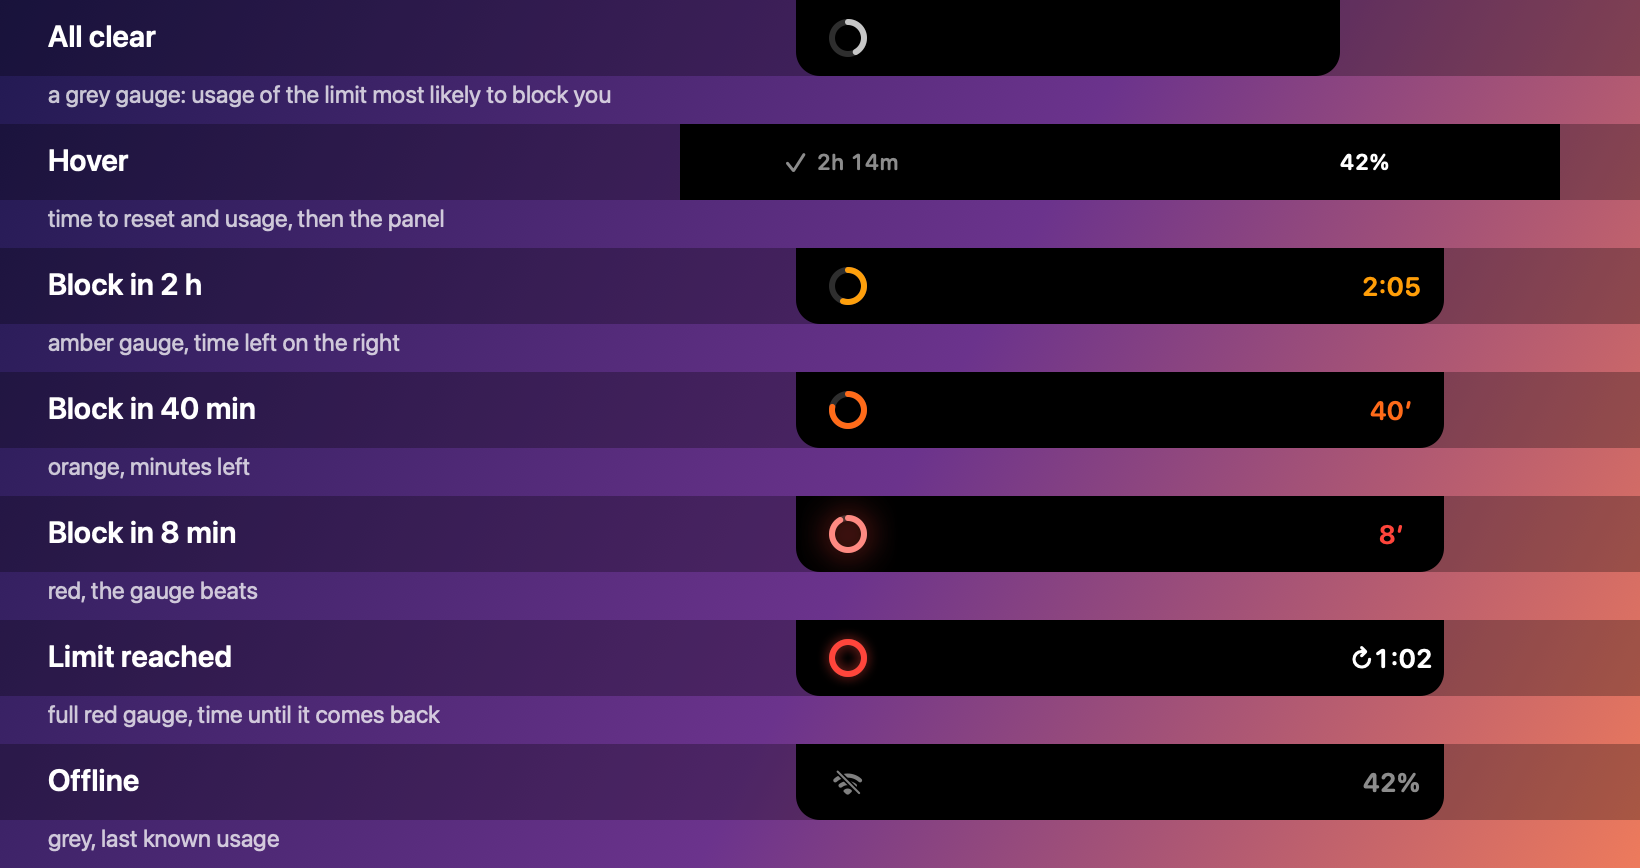
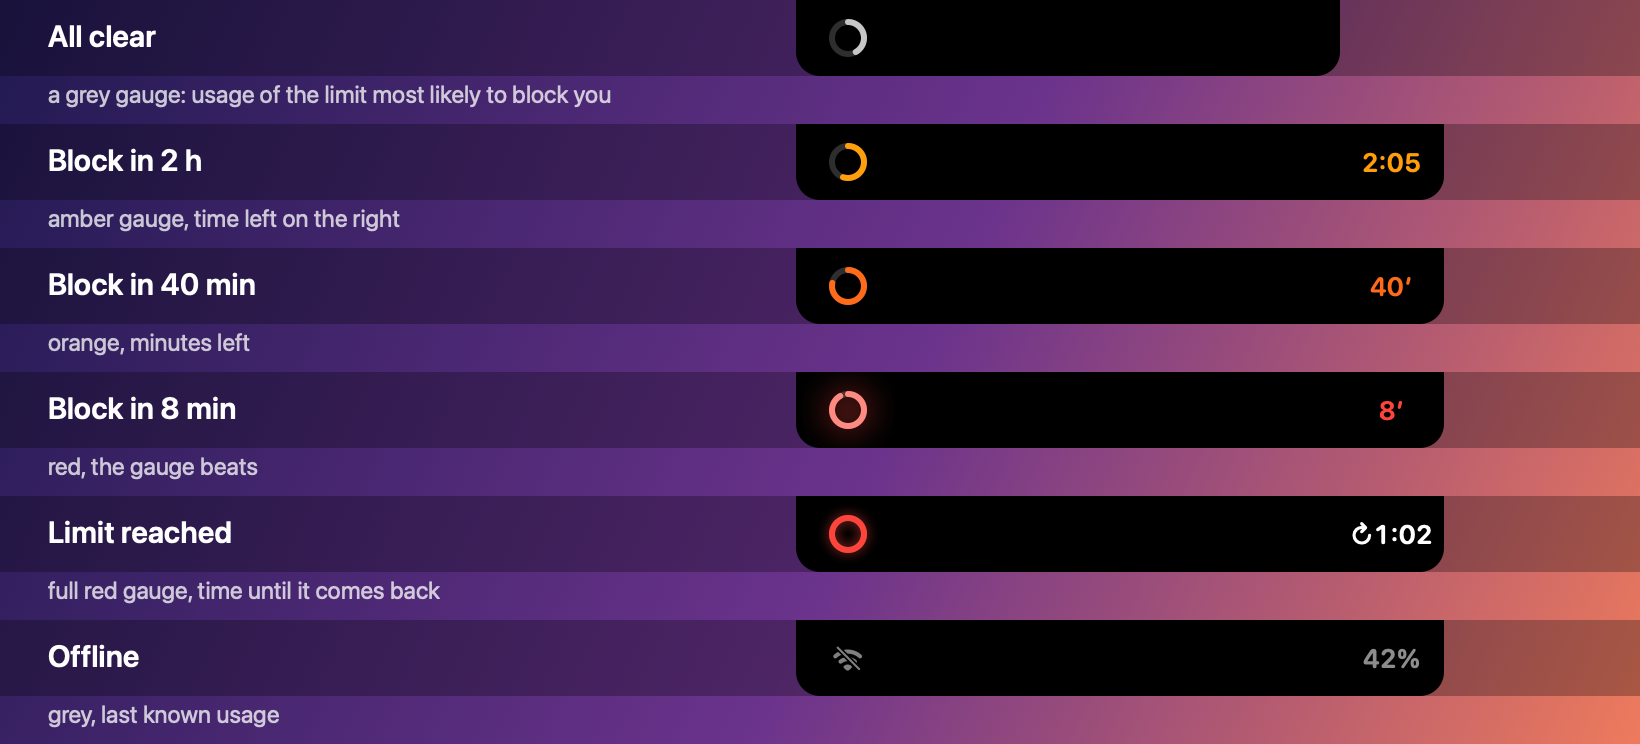
feat(012): the island stays on hover, the panel opens below
The 003 text strip no longer replaces the island when hovering or pinned.
The right ear keeps its place while expanded so the notch stays centred.
Band rendering and the unused alert pulse removed; README, states sheet
and spec/contract updated.

diff --git a/App/NotchUsage/Views/CompactView.swift b/App/NotchUsage/Views/CompactView.swift
@@ -1,41 +1,26 @@
 import NotchUsageCore
 import SwiftUI
 
-/// Bandeau replié (003, 012) : au repos, l'île (jauge ou glyphe à gauche, une donnée à droite) ; au survol et
-/// épinglé, la bande complète (`CompactStrip`). La pilule montre l'île sur une ligne.
+/// Haut du panneau (012) : l'île, repliée comme dépliée (retour utilisateur : la bande à texte de la 003 au
+/// survol cassait l'effet Dynamic Island). Jauge ou glyphe à gauche, une donnée à droite ; la pilule l'aligne.
 struct CompactView: View {
     let display: DisplayState
     let signal: NotchSignal
-    var now: Date = Date()
-    var pulse: Int = 0
     var beat: Int = 0
-    var onReconnect: (() -> Void)?
     @Environment(\.accessibilityReduceMotion) private var reduceMotion
 
     var body: some View {
         Group {
-            if display.isExpanded, case .band(let strip) = signal.content {
-                if display.mode == .notch {
-                    HStack(spacing: 0) {
-                        leading(strip, glyph: true).frame(width: wing, alignment: .trailing)
-                        Color.clear.frame(width: display.layout.width)
-                        trailing(strip).frame(width: wing, alignment: .leading)
-                    }
-                    .padding(.horizontal, Self.horizontalPadding)
-                } else {
-                    ViewThatFits(in: .horizontal) {
-                        bandLine(strip, glyph: true)
-                        bandLine(strip, glyph: false)
-                    }
-                    .padding(.horizontal, Self.horizontalPadding)
-                }
-            } else if display.mode == .notch {
-                // L'encoche physique au centre, une oreille de chaque côté ; la droite n'existe qu'avec une donnée.
+            if display.mode == .notch {
+                // L'encoche physique au centre. Repliée, l'oreille droite n'existe qu'avec une donnée ; dépliée, elle
+                // garde sa place pour que l'encoche reste au centre du panneau.
                 HStack(spacing: 0) {
                     islandLeading.frame(width: NotchPanelController.earWidth)
                     Color.clear.frame(width: display.layout.width)
                     if let trailing = signal.island.trailing {
                         islandTrailing(trailing).frame(width: NotchPanelController.earWidth).transition(.opacity)
+                    } else if display.isExpanded {
+                        Color.clear.frame(width: NotchPanelController.earWidth)
                     }
                 }
             } else {
@@ -43,21 +28,14 @@ struct CompactView: View {
                     islandLeading
                     if let trailing = signal.island.trailing { islandTrailing(trailing).transition(.opacity) }
                 }
-                .padding(.horizontal, Self.horizontalPadding)
+                .padding(.horizontal, 10)
             }
         }
-        .font(.system(size: 11, weight: .semibold, design: .rounded))
         .foregroundStyle(.white)
         .accessibilityElement(children: .ignore)
         .accessibilityHidden(false)
         .accessibilityLabel(signal.accessibility)
     }
-
-    private static let horizontalPadding: CGFloat = 10
-    /// Largeur utile d'une aile de la bande : la largeur de l'aile moins la marge horizontale.
-    private var wing: CGFloat { NotchPanelController.wingWidth - Self.horizontalPadding }
-
-    // MARK: Île (012)
 
     @ViewBuilder private var islandLeading: some View {
         switch signal.island.leading {
@@ -93,82 +71,9 @@ struct CompactView: View {
         case .unavailable: return "questionmark.circle"
         }
     }
-
-    private func bandLine(_ strip: CompactStrip, glyph: Bool) -> some View {
-        HStack(spacing: 5) {
-            leading(strip, glyph: glyph)
-            if leftText(strip) != nil { Text(verbatim: "·").foregroundStyle(.secondary) }
-            trailing(strip)
-        }
-        .fixedSize()
-    }
-
-    private func pill(_ text: String, tint: Color) -> some View {
-        Text(text).monospacedDigit().fixedSize()
-            .foregroundStyle(.black.opacity(0.85))
-            .padding(.horizontal, 5).padding(.vertical, 1)
-            .background(Capsule().fill(tint))
-    }
-
-    // MARK: Bande complète (003)
-
-    private func leftText(_ strip: CompactStrip) -> String? {
-        switch strip.left {
-        case .holds(let t), .blockIn(let t), .blockedFor(let t), .offline(let t): return t
-        case .locked, .connect, .unsupported, .unavailable: return nil
-        }
-    }
-
-    private func leading(_ strip: CompactStrip, glyph: Bool) -> some View {
-        let (symbol, color): (String, Color) = switch strip.left {
-        case .holds: ("checkmark", .secondary)
-        case .blockIn: ("hourglass", tint(strip.tone))
-        case .blockedFor: ("arrow.clockwise", .red)
-        case .offline: ("wifi.slash", .secondary)
-        case .locked: ("lock", .orange)
-        case .connect: ("person.crop.circle.badge.plus", .secondary)
-        case .unsupported: ("questionmark.circle", .secondary)
-        case .unavailable: ("wifi.exclamationmark", .secondary)
-        }
-        return HStack(spacing: 4) {
-            if glyph || leftText(strip) == nil {
-                Image(systemName: symbol).symbolEffect(.bounce, value: pulse)
-            }
-            if let text = leftText(strip) {
-                Text(text).monospacedDigit().fontWeight(color == .secondary ? .medium : .semibold).fixedSize()
-            }
-        }
-        .foregroundStyle(color)
-    }
-
-    @ViewBuilder private func trailing(_ strip: CompactStrip) -> some View {
-        switch strip.right {
-        case .percent(let t):
-            Text(t).monospacedDigit().fixedSize().foregroundStyle(strip.tone == .muted ? Color.secondary : Color.white)
-        case .pill(let t):
-            pill(t, tint: tint(strip.tone))
-        case .signIn(let t):
-            Button { onReconnect?() } label: { Text(t).foregroundStyle(.orange).fixedSize() }
-                .buttonStyle(.plain)
-                .accessibilityAddTraits(.isButton)
-        case .connect(let t):
-            Text(t).foregroundStyle(.secondary).fixedSize()
-        case .dash:
-            Text("—").foregroundStyle(.secondary)
-        }
-    }
-
-    private func tint(_ tone: CompactStrip.Tone) -> Color {
-        switch tone {
-        case .critical: return .red
-        case .warning: return .orange
-        case .muted: return .secondary
-        case .normal: return .white
-        }
-    }
 }
 
-/// Rendu des paliers du liseré (contrat notch-signal.md) : teintes système en apparence sombre.
+/// Teintes des paliers (005), en apparence sombre : jauge de l'île et point plein écran.
 extension NotchSignal.Edge {
     var rgb: (red: Double, green: Double, blue: Double) {
         switch self {

diff --git a/App/NotchUsage/AppModel.swift b/App/NotchUsage/AppModel.swift
@@ -40,7 +40,6 @@ final class AppModel {
     private(set) var signal: NotchSignal
     private(set) var layout: NotchLayout
     /// Incrémenté à chaque alerte émise : déclenche une animation brève (T058).
-    private(set) var alertPulse = 0
     /// Battements du halo (006) : incrémenté sur le tick de 30 s selon `signal.pulse`, jamais remis à zéro.
     /// Battements du halo (006) : `BeatCounter` sur le tick de 30 s, jamais remis à zéro.
     private var beatCounter = BeatCounter()
@@ -198,9 +197,8 @@ final class AppModel {
         let alerts = c.alerts
         alertTask = Task { [weak self] in
             for await event in alerts {
-                guard let self else { return }
+                guard self != nil else { return }
                 Log.refresh.notice("alert \(event.level.rawValue, privacy: .public) on \(event.limitID, privacy: .public)")
-                self.alertPulse += 1
             }
         }
         Task { await c.start() }

diff --git a/App/NotchUsage/Views/NotchRootView.swift b/App/NotchUsage/Views/NotchRootView.swift
@@ -14,7 +14,7 @@ struct NotchRootView: View {
                 AlertDotView(level: d.alertLevel, visible: d.showAlertDot, edge: s.edge, beat: model.beat)
                     .frame(height: NotchPanelController.hiddenStripHeight)
             } else {
-                CompactView(display: d, signal: s, now: model.now, pulse: model.alertPulse, beat: model.beat, onReconnect: { model.reconnect() })
+                CompactView(display: d, signal: s, beat: model.beat)
                     .frame(height: d.layout.height)
                 if d.isExpanded {
                     ExpandedContainer()

diff --git a/specs/012-notch-island/spec.md b/specs/012-notch-island/spec.md
@@ -12,6 +12,12 @@
 
 **Remplace** : le rendu de l'encoche repliée de la [005](../005-silent-notch/spec.md) (silence et liseré). Restent valables : la règle de la limite portée (008), la prévision (003), les paliers de temps (005 : 60 min, 30 min), le rythme du battement (006), les notifications (008), la reconnexion (011).
 
+## Clarifications
+
+### Session 2026-11-03
+
+- Q (retour sur build) : au survol, la bande à texte de la 003 revenait ; faut-il la garder ? → A: non. L'île reste en haut au survol et quand le panneau est épinglé ; le panneau se déplie dessous. La bande à texte disparaît.
+
 ## User Scenarios & Testing *(mandatory)*
 
 ### User Story 1 - Lire d'un coup d'œil, comme la Dynamic Island (Priority: P1)
@@ -20,7 +26,7 @@ L'utilisateur travaille, l'app tourne. Quand tout va bien, une petite jauge circ
 dans une oreille noire à gauche de l'encoche : elle montre l'usage de la limite la plus menaçante et
 dit, sans texte, que l'app fonctionne. Quand un blocage approche, la jauge prend la couleur de
 l'échéance et une oreille droite apparaît avec une seule donnée : le temps avant le blocage. Au
-survol, la bande puis le panneau se déplient comme aujourd'hui ; un clic épingle.
+survol, l'île reste en haut et le panneau se déplie dessous ; un clic épingle.
 
 **Why this priority**: c'est le changement visible de la feature. Le liseré seul (005) se fondait
 dans certains fonds d'écran, ne montrait pas que l'app tournait et ne portait l'urgence que par la
@@ -38,7 +44,7 @@ encoche, sur fond clair, sombre et orange : contenu, couleur et largeur conforme
 5. **Given** une limite au seuil sans prévision (hebdo à 97 %), **Then** jauge rouge (ambre au seuil d'attention) et à droite le libellé court de la limite (« 7d » / « 7 j », ou le nom du modèle).
 6. **Given** un relevé ancien ou un dernier relevé en échec, **Then** glyphe wifi barré gris à gauche et pourcentage gris à droite.
 7. **Given** une session expirée, **Then** cadenas à gauche, aucune oreille droite ; le survol ouvre l'écran de reconnexion (« Renouveler la session »). **Given** aucun compte, **Then** glyphe compte à gauche.
-8. **Given** n'importe quel état, **When** le pointeur survole l'encoche ou l'utilisateur clique, **Then** bande puis panneau, épinglage, comme avant.
+8. **Given** n'importe quel état, **When** le pointeur survole l'encoche ou l'utilisateur clique, **Then** l'île reste en haut, inchangée, et le panneau se déplie dessous ; le clic épingle comme avant.
 9. **Given** un passage d'un état à un autre, **Then** l'oreille droite apparaît ou disparaît et la largeur change en fondu d'environ 0,3 s ; rien d'autre ne bouge.
 10. **Given** n'importe quel état, **Then** aucun liseré ni cerne autour de l'encoche.
 
@@ -94,7 +100,7 @@ comme aujourd'hui. Le README et ses captures montrent l'île.
 - **FR-004**: Relevé ancien ou en échec, session expirée, aucun compte : un glyphe gris remplace la jauge (wifi barré, cadenas, compte).
 - **FR-005**: Les oreilles MUST faire 52 pt de large, noires, arrondies en bas, collées à l'encoche physique ; la zone de survol suit les oreilles visibles.
 - **FR-006**: Le liseré et le cerne autour de l'encoche MUST être retirés.
-- **FR-007**: Le survol et le clic MUST garder leur comportement (bande, panneau, épinglage).
+- **FR-007**: Au survol et épinglé, l'île MUST rester en haut du panneau, l'encoche physique au centre ; la bande à texte de la 003 n'est plus affichée. Le clic épingle comme avant.
 - **FR-008**: Le battement d'imminence MUST porter sur la jauge, avec le rythme et les exclusions de la 006.
 - **FR-009**: En plein écran, le point MUST garder la couleur de la jauge et battre avec elle.
 - **FR-010**: La pilule MUST montrer la jauge et la même donnée sur une ligne ; au calme, la jauge seule.

diff --git a/README.md b/README.md
@@ -27,7 +27,7 @@ It is native Swift, local-first, free of telemetry, and uses about 25 MB of memo
 ## How it reads
 
 <p align="center">
-  <img src="docs/images/states.png" alt="Notch states: all clear, hover, block predicted in 2 h, in 40 min, in 8 min, limit reached, offline" width="820">
+  <img src="docs/images/states.png" alt="Notch states: all clear, block predicted in 2 h, in 40 min, in 8 min, limit reached, offline" width="820">
 </p>
 
 Like the Dynamic Island: on the left of the notch, a small gauge shows the usage of the limit most likely
@@ -41,7 +41,7 @@ to block you; on the right, one number says how long before the block.
 | Limit reached | full red gauge | `↻1:02`, time until it comes back |
 | Weekly or model limit over its threshold | amber or red gauge | the limit's short name (`7d`, `Fable`) |
 | Offline or stale reading | grey wifi glyph | last known usage |
-| Hover | time to reset and usage, then the full panel; click to pin | |
+| Hover | the island stays, the full panel opens below; click to pin | |
 
 The gauge fill and the number carry the information without colour.
 

diff --git a/specs/012-notch-island/tasks.md b/specs/012-notch-island/tasks.md
@@ -25,4 +25,5 @@
 - Captures : calme 544 × 76 px (encoche + oreille gauche), avec donnée 648 × 76 px (+ 2 oreilles = 104 pt) ; pilule « jauge + 8′ ».
 - Mesures sur lancement neuf, 60 s en `imminent` : 0,33 s CPU (0,55 %), empreinte 25,0 Mo (0.4.1 Debug : 24,5 Mo).
 - Ajustements après captures : minute entamée comptée (« 8′ » et non « 7′ ») ; retour d'une limite épuisée au format court « ↻1:02 ».
+- Retour utilisateur : au survol, la bande 003 revenait. L'île reste désormais en haut du panneau déplié (capture `far` au survol : jauge ambre et 2:05 au-dessus du panneau) ; rendu de la bande et compteur `alertPulse` retirés.
 - Non rejoué : fond orange à l'œil, VoiceOver, plein écran.

diff --git a/specs/012-notch-island/contracts/island.md b/specs/012-notch-island/contracts/island.md
@@ -13,6 +13,6 @@
 | Session expirée | glyphe cadenas | grise | aucune |
 | Aucun compte | glyphe compte | grise | aucune |
 | Non pris en charge, indisponible | glyphe point d'interrogation | grise | aucune |
-| Survol ou épinglé | bande 003, puis panneau | - | - |
+| Survol ou épinglé | l'île, inchangée, au-dessus du panneau | - | - |
 
 Cadre replié (encoche) : encoche + 52 pt à gauche + 52 pt à droite si donnée. Pilule : même contenu sur une ligne.
